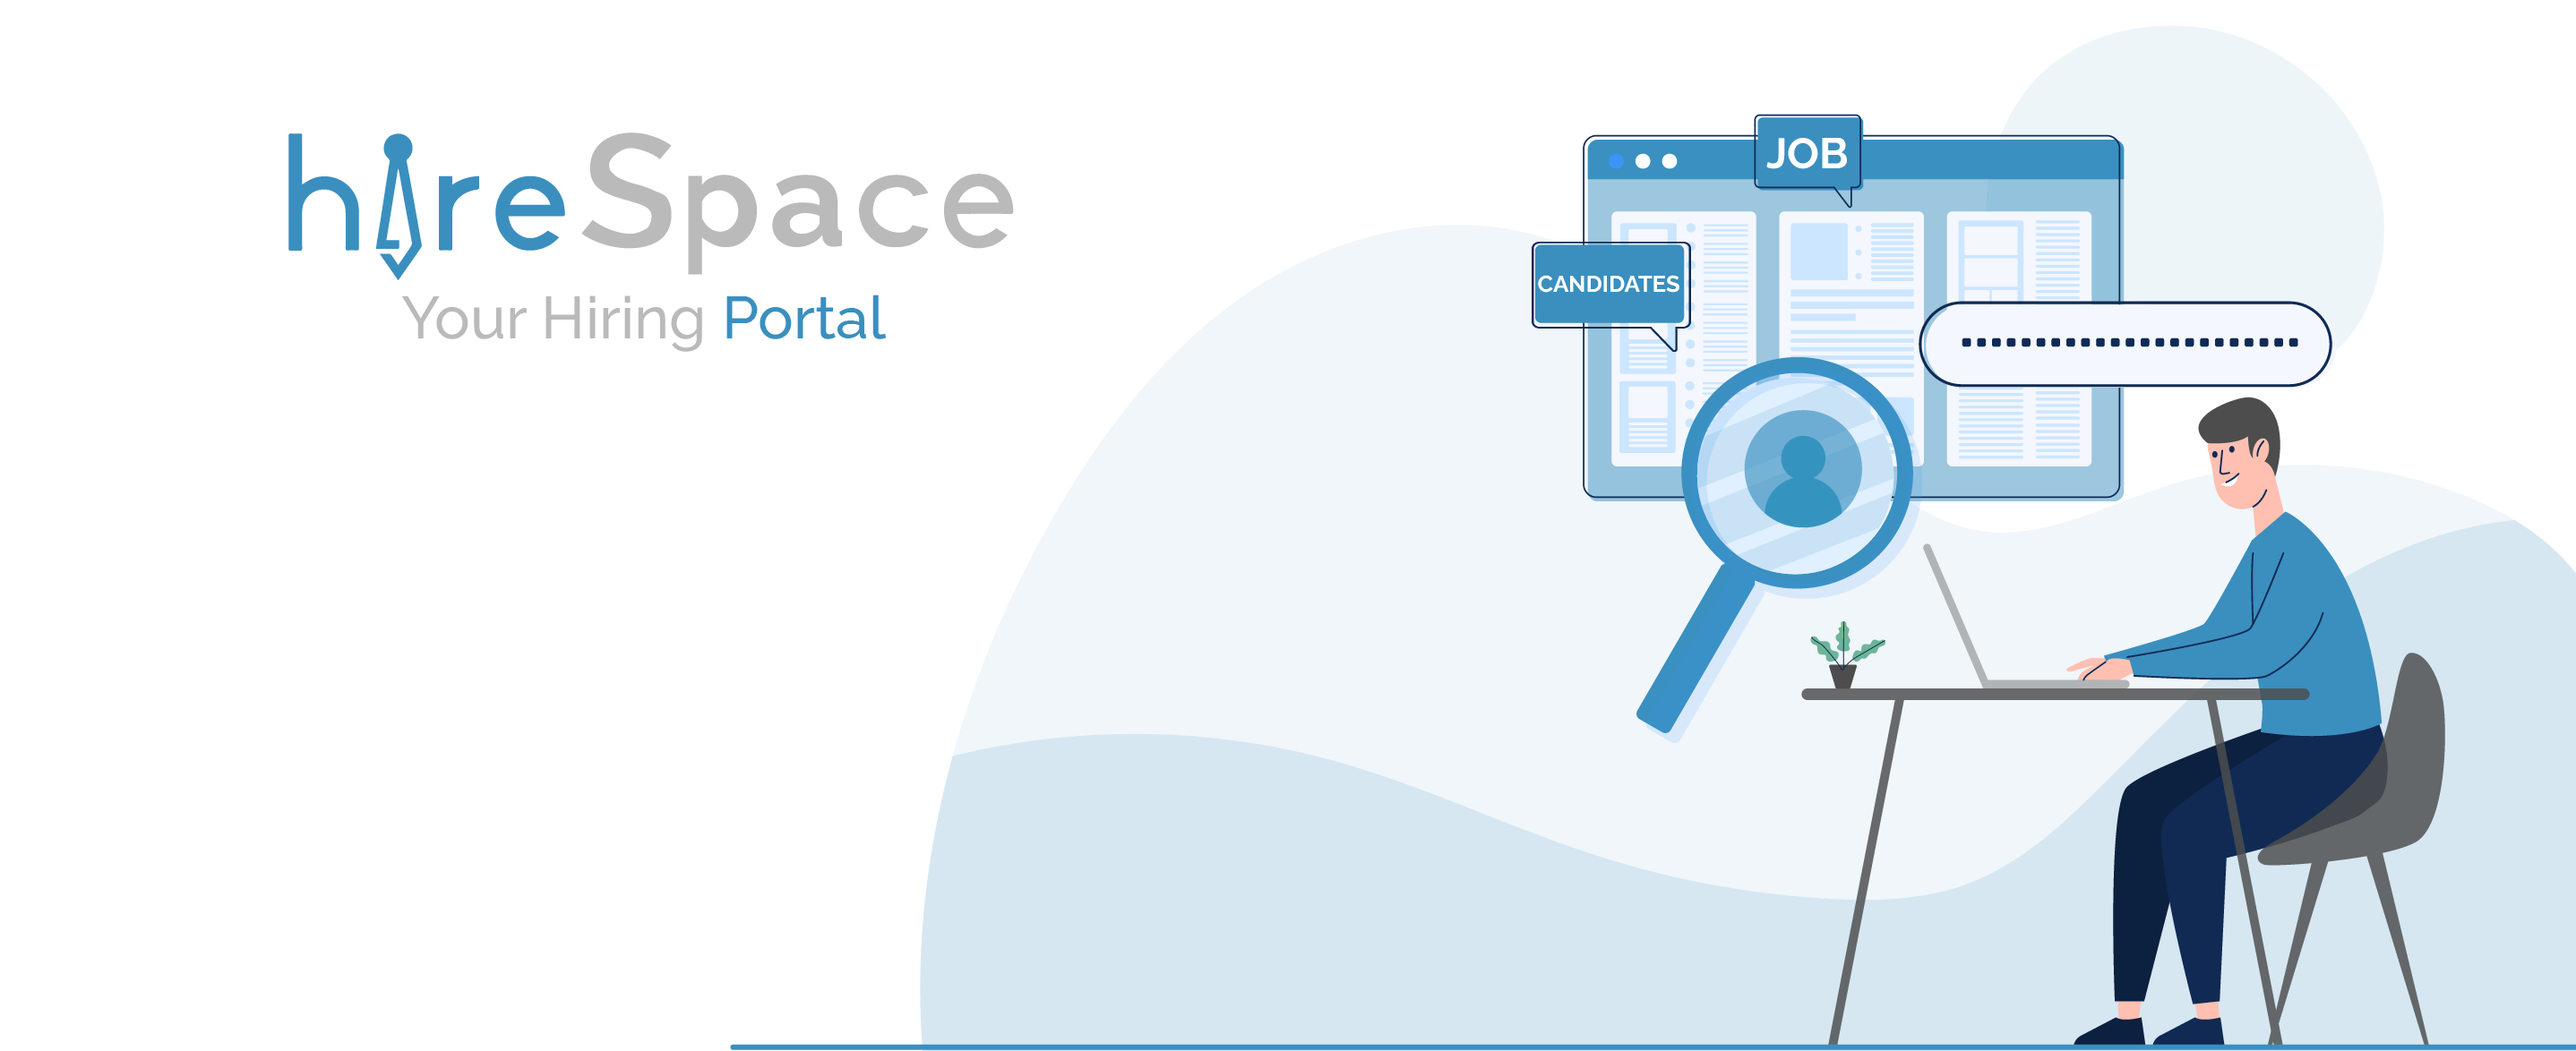
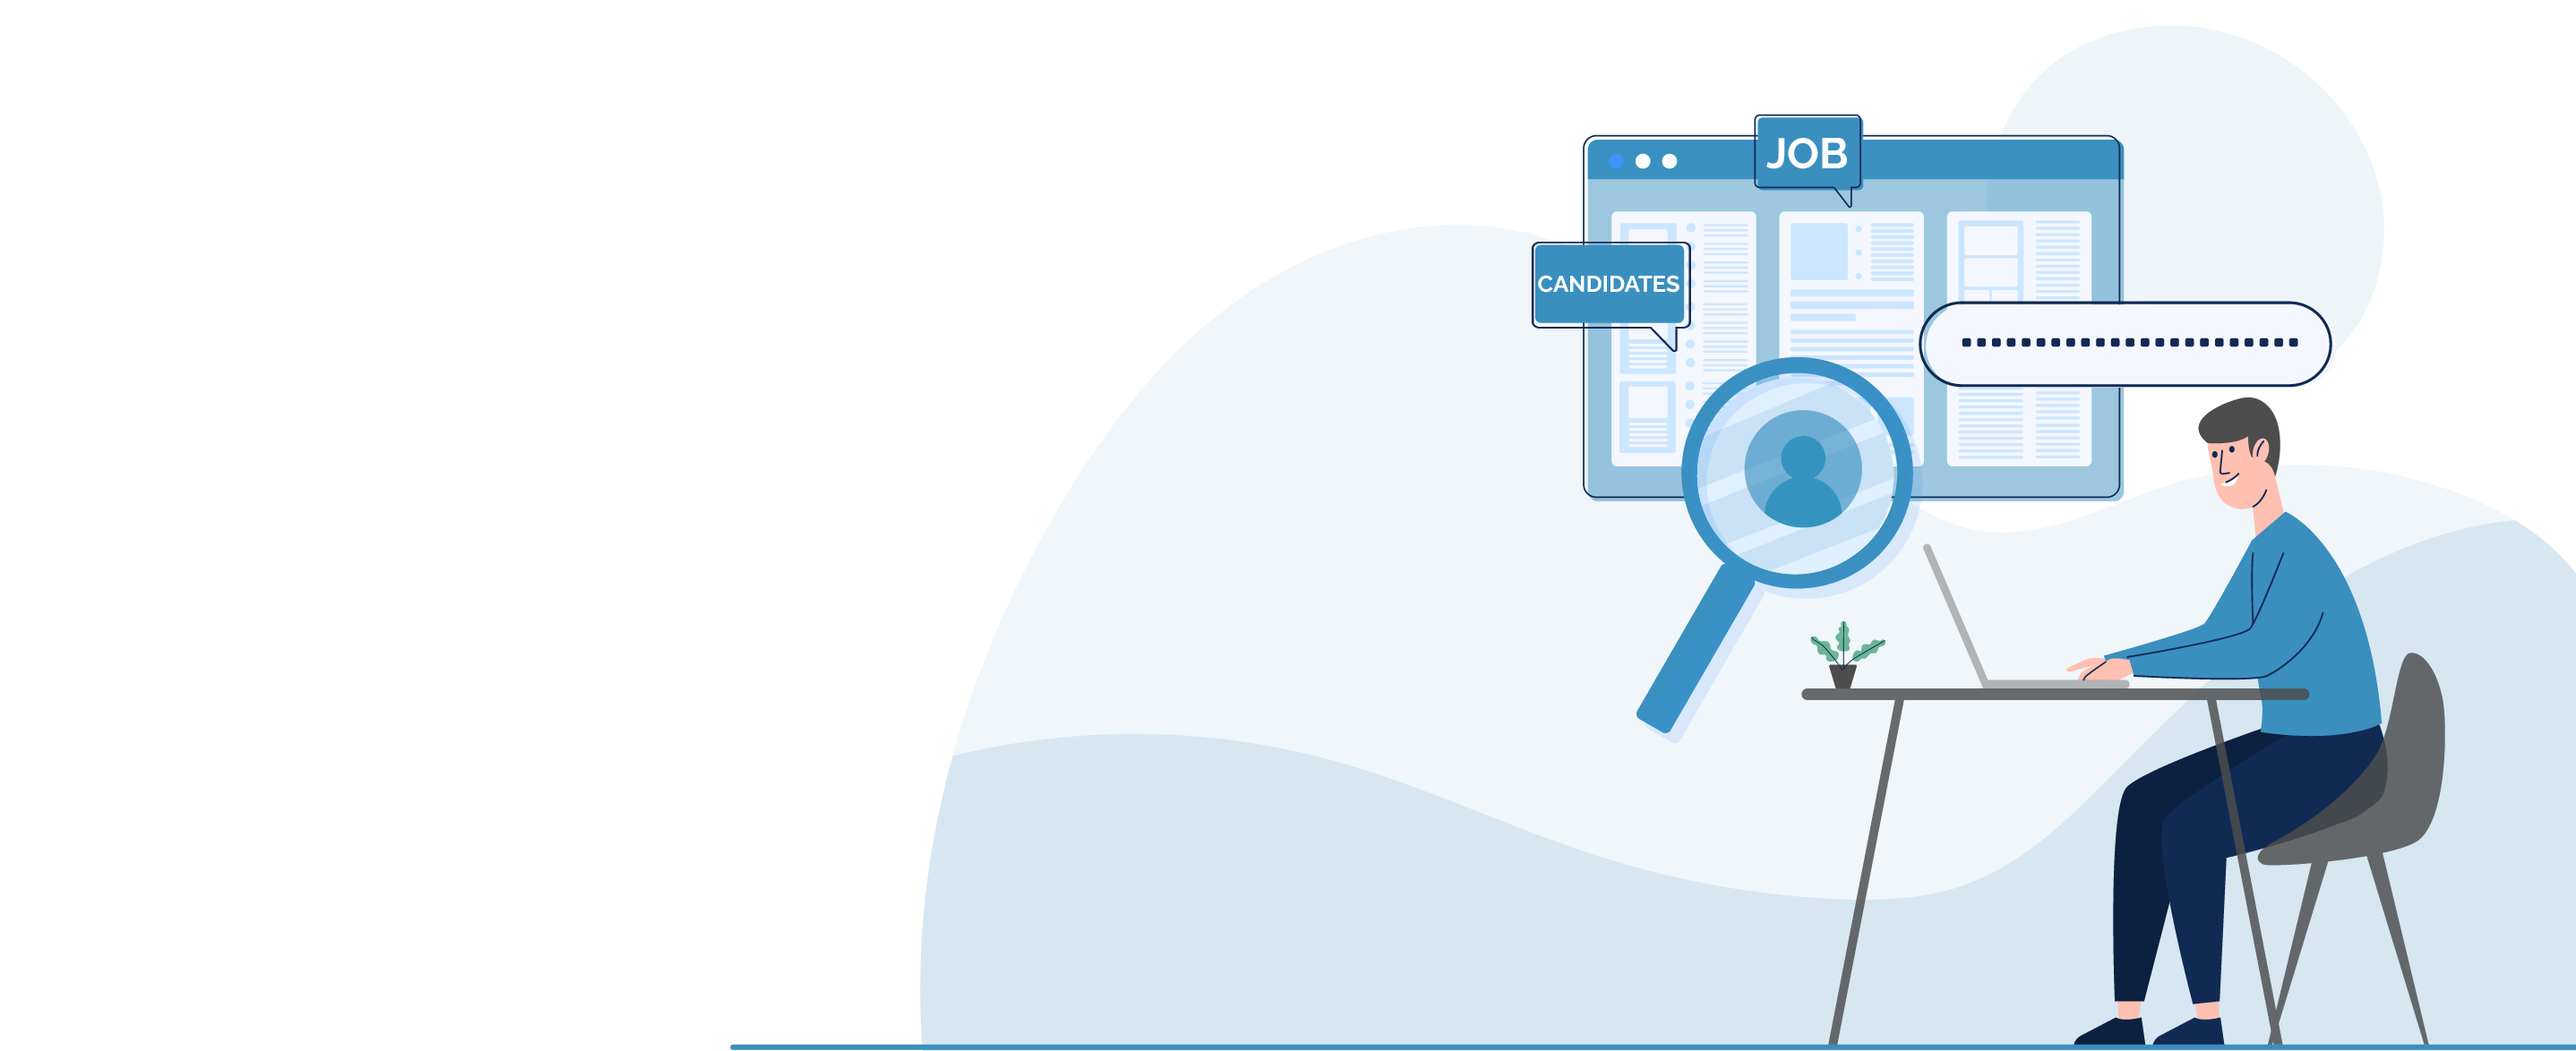
home page and other pages modified

Changed region(s): [[0.0928, 0.1227, 0.4023, 0.2453], [0.1547, 0.276, 0.3404, 0.3373]]

diff --git a/frontend/src/components/Home.js b/frontend/src/components/Home.js
@@ -1,22 +1,40 @@
 import React from 'react';
 import logo from '../images/logo.png';
 import bg from '../images/bg.png'
-import { Link, useMatch, useResolvedPath } from "react-router-dom";
-import '../style/home.css'
+import { Link, useMatch,BrowserRouter as Router, useResolvedPath } from "react-router-dom";
+import '../style/home.css';
+import FeaturedJob from '../components/FeaturedJob';
+import ExploreByCategory from '../components/ExploreByCategory';
+
 const Home = () => {
     return (
-    // <h1>Jai Shree Ram</h1>
     <>
         <div className="container-home">
-             <div className='left-home'>
-                <img src={bg} className="App-logo" alt='logo' /> 
-            </div> 
-           {/* <div className="right-home">
-                {/* <img src={bg} className="App-logo" alt='logo' />   
-            </div> */}
+            
+               <div className="content-home">
+                <h2>Welcome to Your Hiring <span style={{ color: "#3A90C0" }}>Portal!</span></h2>
+                <p>
+                Connecting exceptional candidates with leading companies.
+                </p>
+                
+                <div className="contain-search">
+                    <div className="search-job-title">
+                    <input type="text" className="form-field form-field-search" name="name" id="name" placeholder="Job-Title" />
+                    </div>
+                    <div className="search-city">
+                    <input type="text" className="form-field form-field-search" name="name" id="name" placeholder="City" />
+                    </div>
+                    <button className='btn-search'>Search Job</button>
+                </div>
 
+               </div>
         </div>
-      
+        
+
+
+        <ExploreByCategory />
+        <FeaturedJob />
+          
     </>
     );
 };

diff --git a/frontend/src/style/home.css b/frontend/src/style/home.css
@@ -1,9 +1,90 @@
-.left-home img{
+@import url('color.css');
+/* .container-home img{
     height: 563px;
-}
+} */
 
-/* .conainer-home{
+.container-home{
     background-image: url(../images//bg.png);
     background-size: cover;
     height: 563px;
+    width: 100%;
+    background-position: center;
+}
+
+.content-home{
+    position: absolute;
+    top:25%;
+    left:5%
+}
+.container-home h2{
+    font-size: 40px;
+    font-weight: 600px;
+    color: var(--C1);
+}
+.container-home p{
+    margin-top: 20px;
+    font-size:20px;
+    line-height: 25px;
+}
+.contain-search{
+    margin-top: 20%;
+    display: flex;
+    justify-content: center;
+    background-color: var(--C5);
+    box-shadow: 0 10px 15px rgba(0,0,0,.3);
+    border-radius: 3px ;
+    width: 700px;
+    height: 100px;
+    align-items: center;
+    padding: 10px;
+}
+.btn-search{
+    width: 20%;
+    background-color:var(--C13); 
+    padding: 5px;
+    height: 40px;
+    font: var(--t2);
+    color: var(--C1);
+    margin-left: 2.5px;
+    margin-right: 2.5px;
+    border-radius: 7px;
+    font-size: 18px;
+}
+.btn-search:hover{
+    background-color: var(--C3);
+}
+/* .form-field-search{
+    width: 80%;
+    padding: 0.5rem 1rem;
+    outline: none;
+    text-decoration: none;
+    border-bottom: 2px solid rgba(0,0,0,0.1);
+    background-color: var(--C5);
+    font-size: 16px;
+    margin-bottom: 10px;
+    transition: 0.3s;
 } */
+
+@media (max-width:1024px){
+    .container-home{
+        background-image: url(../images//bg0.png);   
+    }
+}
+@media (max-width:768px){
+
+    .contain-search{
+        display: inline;
+        box-shadow: none;
+        background-color: transparent;
+    }
+    .btn-search{
+        font-size: 12px;
+        box-shadow: none;
+    }
+.content-home{
+    margin-top: 15%;
+    align-items: center;
+}
+    
+    
+}

diff --git a/frontend/src/App.js b/frontend/src/App.js
@@ -4,14 +4,13 @@ import { Route, BrowserRouter as Router, Link, Routes } from 'react-router-dom';
 import Navbar from './components/Navbar';
 import Home from './components/Home'
 import Footer from './components/Footer';
-import FeaturedJob from './components/FeaturedJob';
+// import FeaturedJob from './components/FeaturedJob';
 import Findjobs from './components/Findjobs';
 import BrowseCompany from './components/BrowseCompany';
 import Candidate from './components/User/User-Auth/Login';
 import Company from './components/Company/Company-auth/LoginE';
 import CandidateSignUp from './components/User/User-Auth/Signup';
 import CompanySignUp from './components/Company/Company-auth/SignupE';
-import ExploreByCategory from './components/ExploreByCategory';
 import About from './components/About';
 function App() {
 
@@ -30,15 +29,11 @@ function App() {
           <Route path="/CompanySignUp" element={<CompanySignUp />} />
         </Routes>
       </Router>
-      <Router>
-        <ExploreByCategory />
-      </Router>
-      <Router>
-        <FeaturedJob />
-      </Router>
+      
+
       <Router>
         <Footer />
-      </Router>
+      </Router> 
     </div>
   );
 }

diff --git a/frontend/src/components/ExploreByCategory.js b/frontend/src/components/ExploreByCategory.js
@@ -80,7 +80,7 @@ const ExploreByCategory = () => {
     <>
     <div className="container0">
       <h3 className="heading1">
-        Explore by<span style={{ color: "#26A4FF" }}> category</span>
+        Explore by<span style={{ color: "#3A90C0" }}> category</span>
       </h3>
       <div className="box-container0">
 

diff --git a/frontend/src/components/FeaturedJob.js b/frontend/src/components/FeaturedJob.js
@@ -114,7 +114,7 @@ const FeaturedJob = () => {
     <>
     <div className="container_f">
       <h3 className="heading0">
-        Featured<span style={{ color: "#26A4FF" }}> jobs</span>
+        Featured<span style={{ color: "#3A90C0" }}> jobs</span>
       </h3>
       <div className="box-container_f">
 

diff --git a/frontend/src/components/User/User-Auth/Signup.js b/frontend/src/components/User/User-Auth/Signup.js
@@ -1,5 +1,5 @@
 import React from 'react';
-import signup from '../../../images/signup.png';
+import signup from '../../../images/login.png';
 import google from  '../../../images/google.svg';
 import linkedin from  '../../../images/linkedin.svg';
 import '../../../style/signupe.css';

diff --git a/frontend/src/components/Company/Company-auth/LoginE.js b/frontend/src/components/Company/Company-auth/LoginE.js
@@ -1,5 +1,5 @@
 import React from 'react';
-import login from '../../../images/login.png';
+import login from '../../../images/signup.png';
 import google from  '../../../images/google.svg';
 import linkedin from  '../../../images/linkedin.svg';
 import '../../../style/login.css';

diff --git a/frontend/src/style/signupe.css b/frontend/src/style/signupe.css
@@ -28,7 +28,7 @@
 .left{
     height: 440px;
     width: 340px;
-    margin-left: 2%;
+    margin-left: 12%;
     padding: 25px 10px;
     background-color: var(--C15);
     box-shadow:5px 10px 18px #888888 ;

diff --git a/frontend/src/components/search.js b/frontend/src/components/search.js
@@ -1,0 +1,9 @@
+import React from 'react'
+
+function search() {
+  return (
+    <div>search</div>
+  )
+}
+
+export default search
